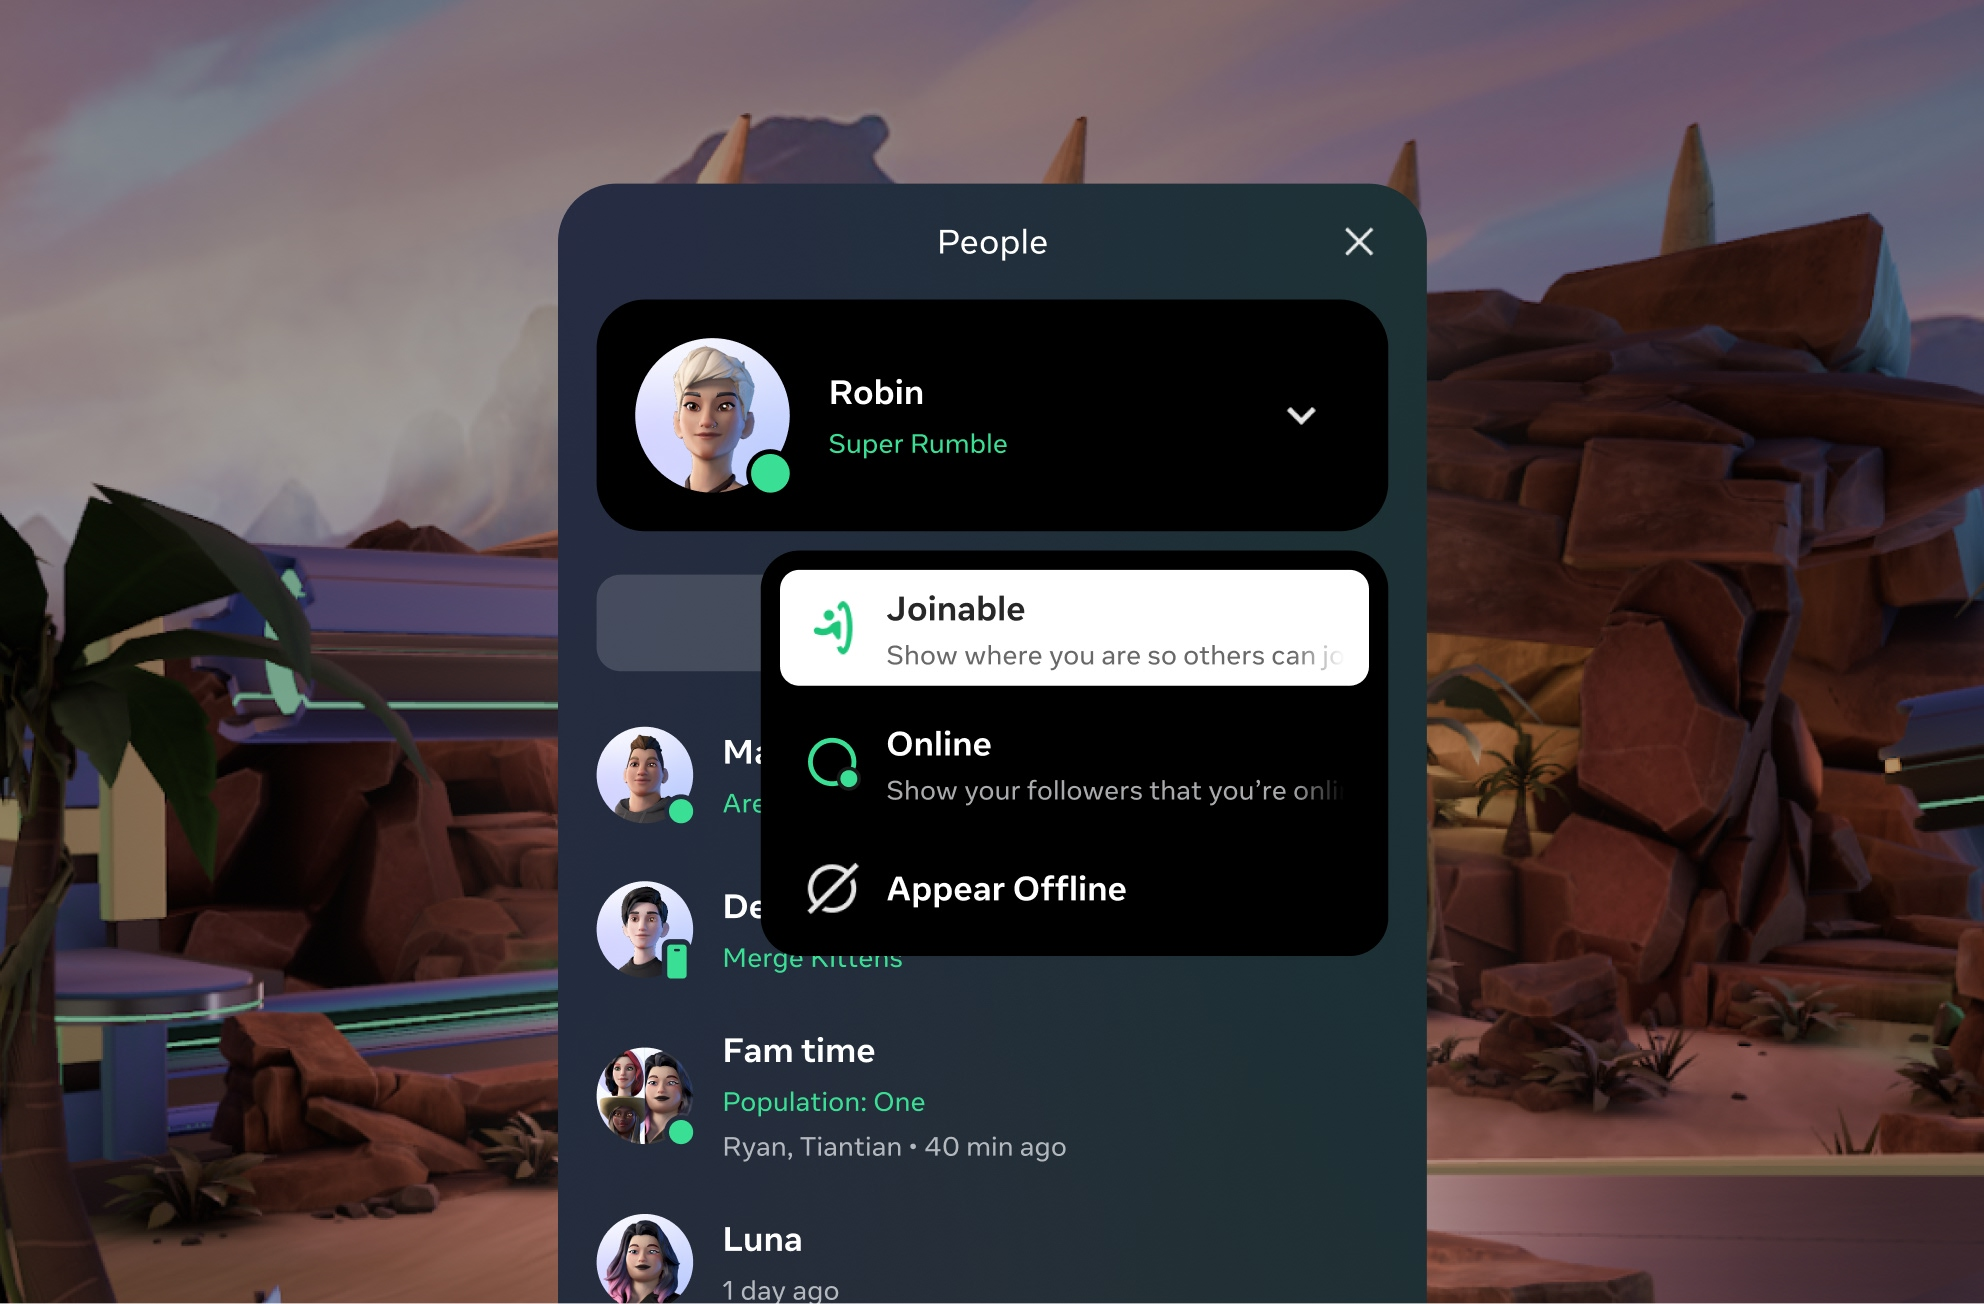
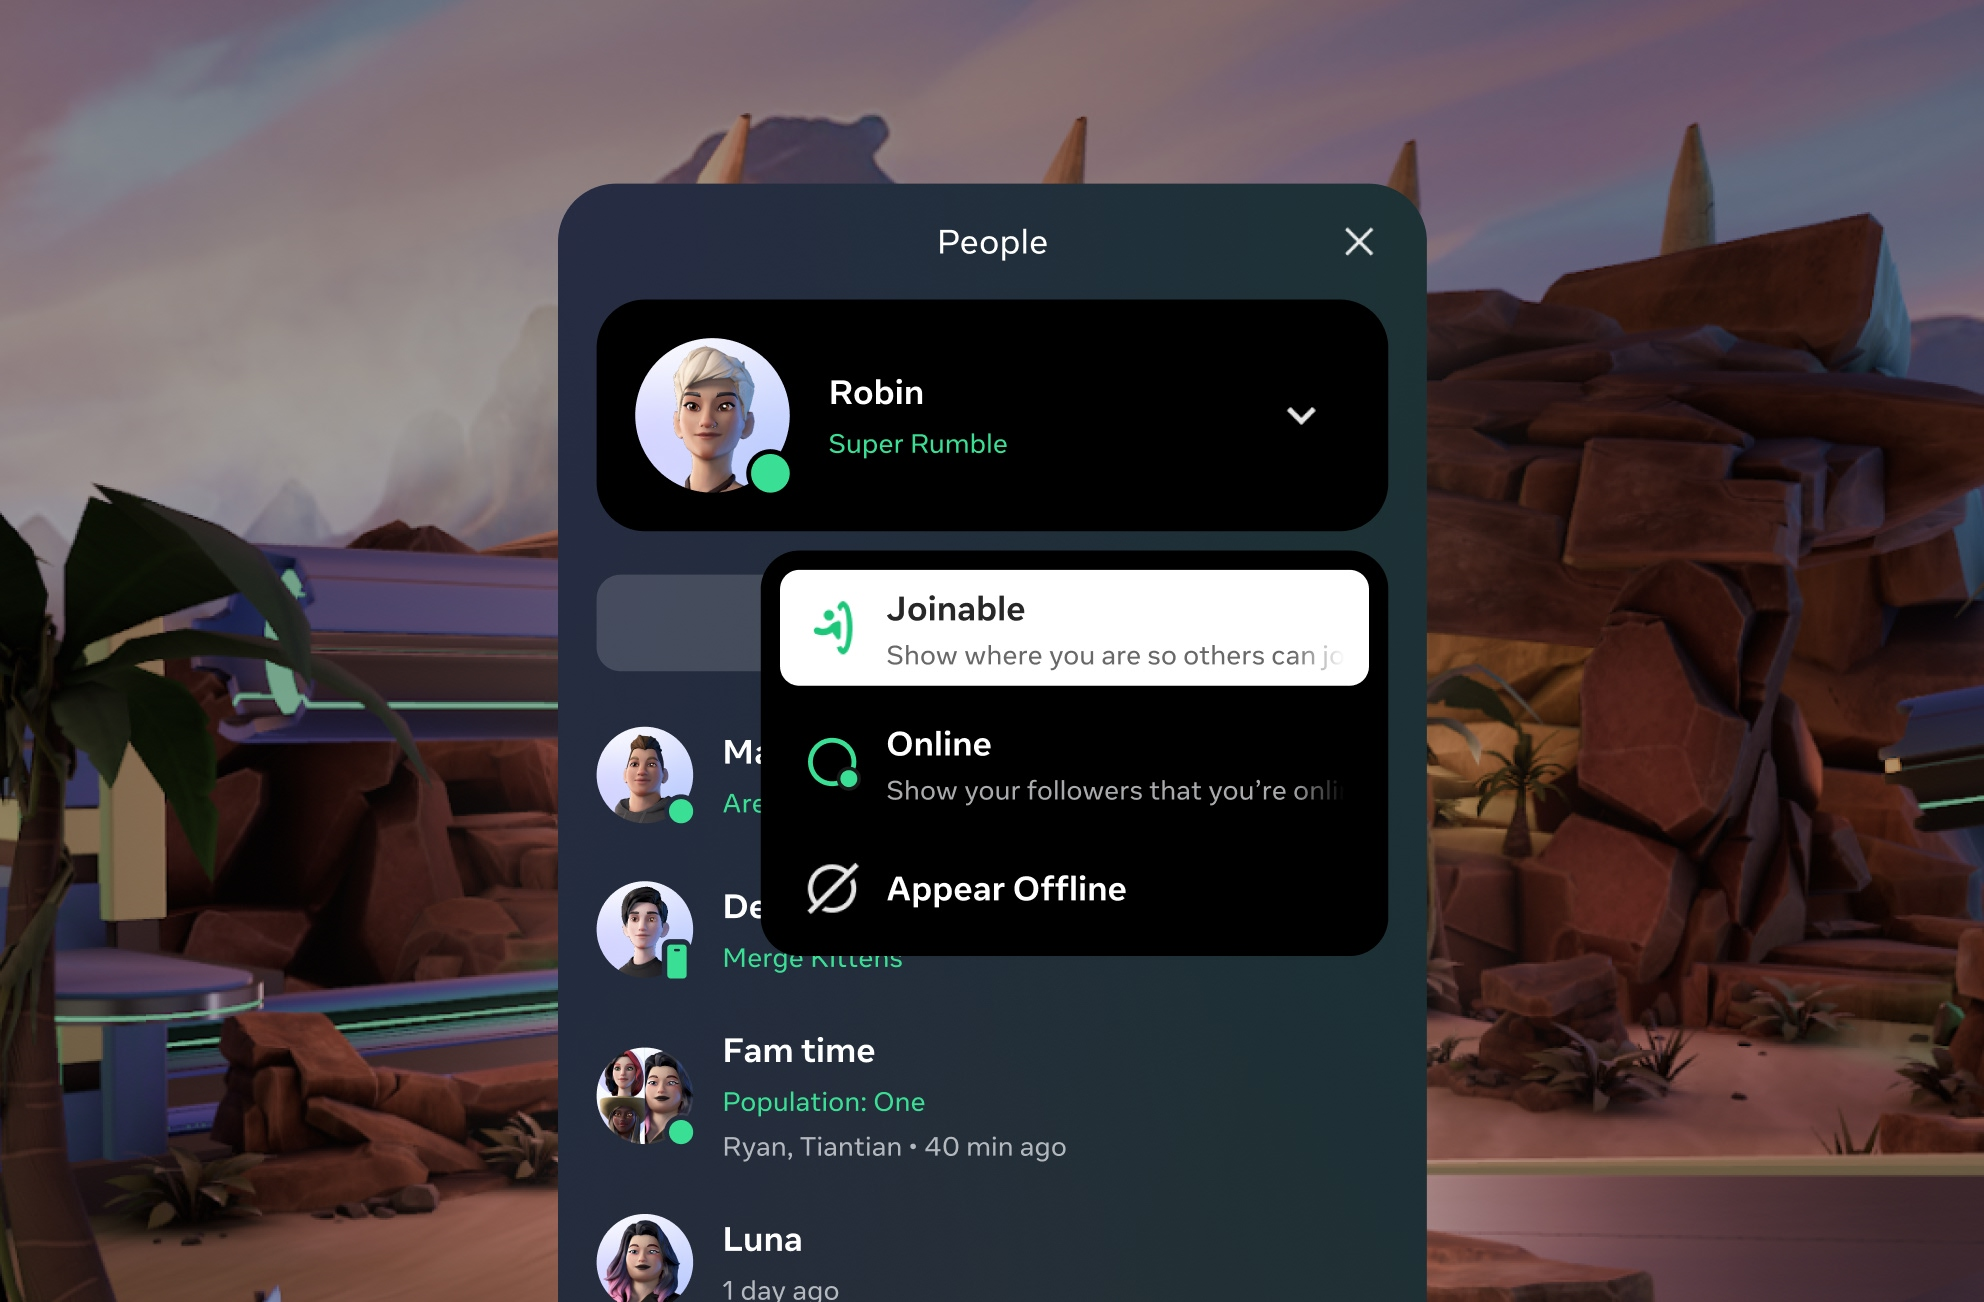
Place Joinable Status captions between story media rows.

diff --git a/javascripts/render.js b/javascripts/render.js
@@ -196,6 +196,17 @@
     return grid;
   }
 
+  function buildStoryBody(body) {
+    var bodyWrap = el("div", "pj-story__body");
+    var paragraphs = Array.isArray(body) ? body : [body];
+    paragraphs.forEach(function (text) {
+      var p = el("p", "pj-story__body-p");
+      appendInlineText(p, text);
+      bodyWrap.appendChild(p);
+    });
+    return bodyWrap;
+  }
+
   function buildStorySection(s) {
     var sec = el("section", "pj-story__section pj-sec reveal");
     if (s.title || s.intro) {
@@ -206,6 +217,7 @@
       var stack = el("div", "pj-story__media-stack");
       s.mediaRows.forEach(function (row) {
         stack.appendChild(buildStoryMediaRow(row));
+        if (row.caption) stack.appendChild(buildStoryBody(row.caption));
       });
       sec.appendChild(stack);
     } else if (s.media && s.media.length) {
@@ -216,14 +228,7 @@
       sec.appendChild(grid);
     }
 
-    if (s.body) {
-      var bodyWrap = el("div", "pj-story__body");
-      var paragraphs = Array.isArray(s.body) ? s.body : [s.body];
-      paragraphs.forEach(function (text) {
-        bodyWrap.appendChild(el("p", "pj-story__body-p", text));
-      });
-      sec.appendChild(bodyWrap);
-    }
+    if (s.body) sec.appendChild(buildStoryBody(s.body));
 
     return sec;
   }

diff --git a/javascripts/projects.js b/javascripts/projects.js
@@ -78,6 +78,8 @@ window.PROJECTS = [
                   fit: "cover",
                 },
               ],
+              caption:
+                "Previously, active status was a confusing mix of toggles to share your online status and current app. I simplified to a single dropdown: Joinable, online, and offline.",
             },
             {
               layout: "double",
